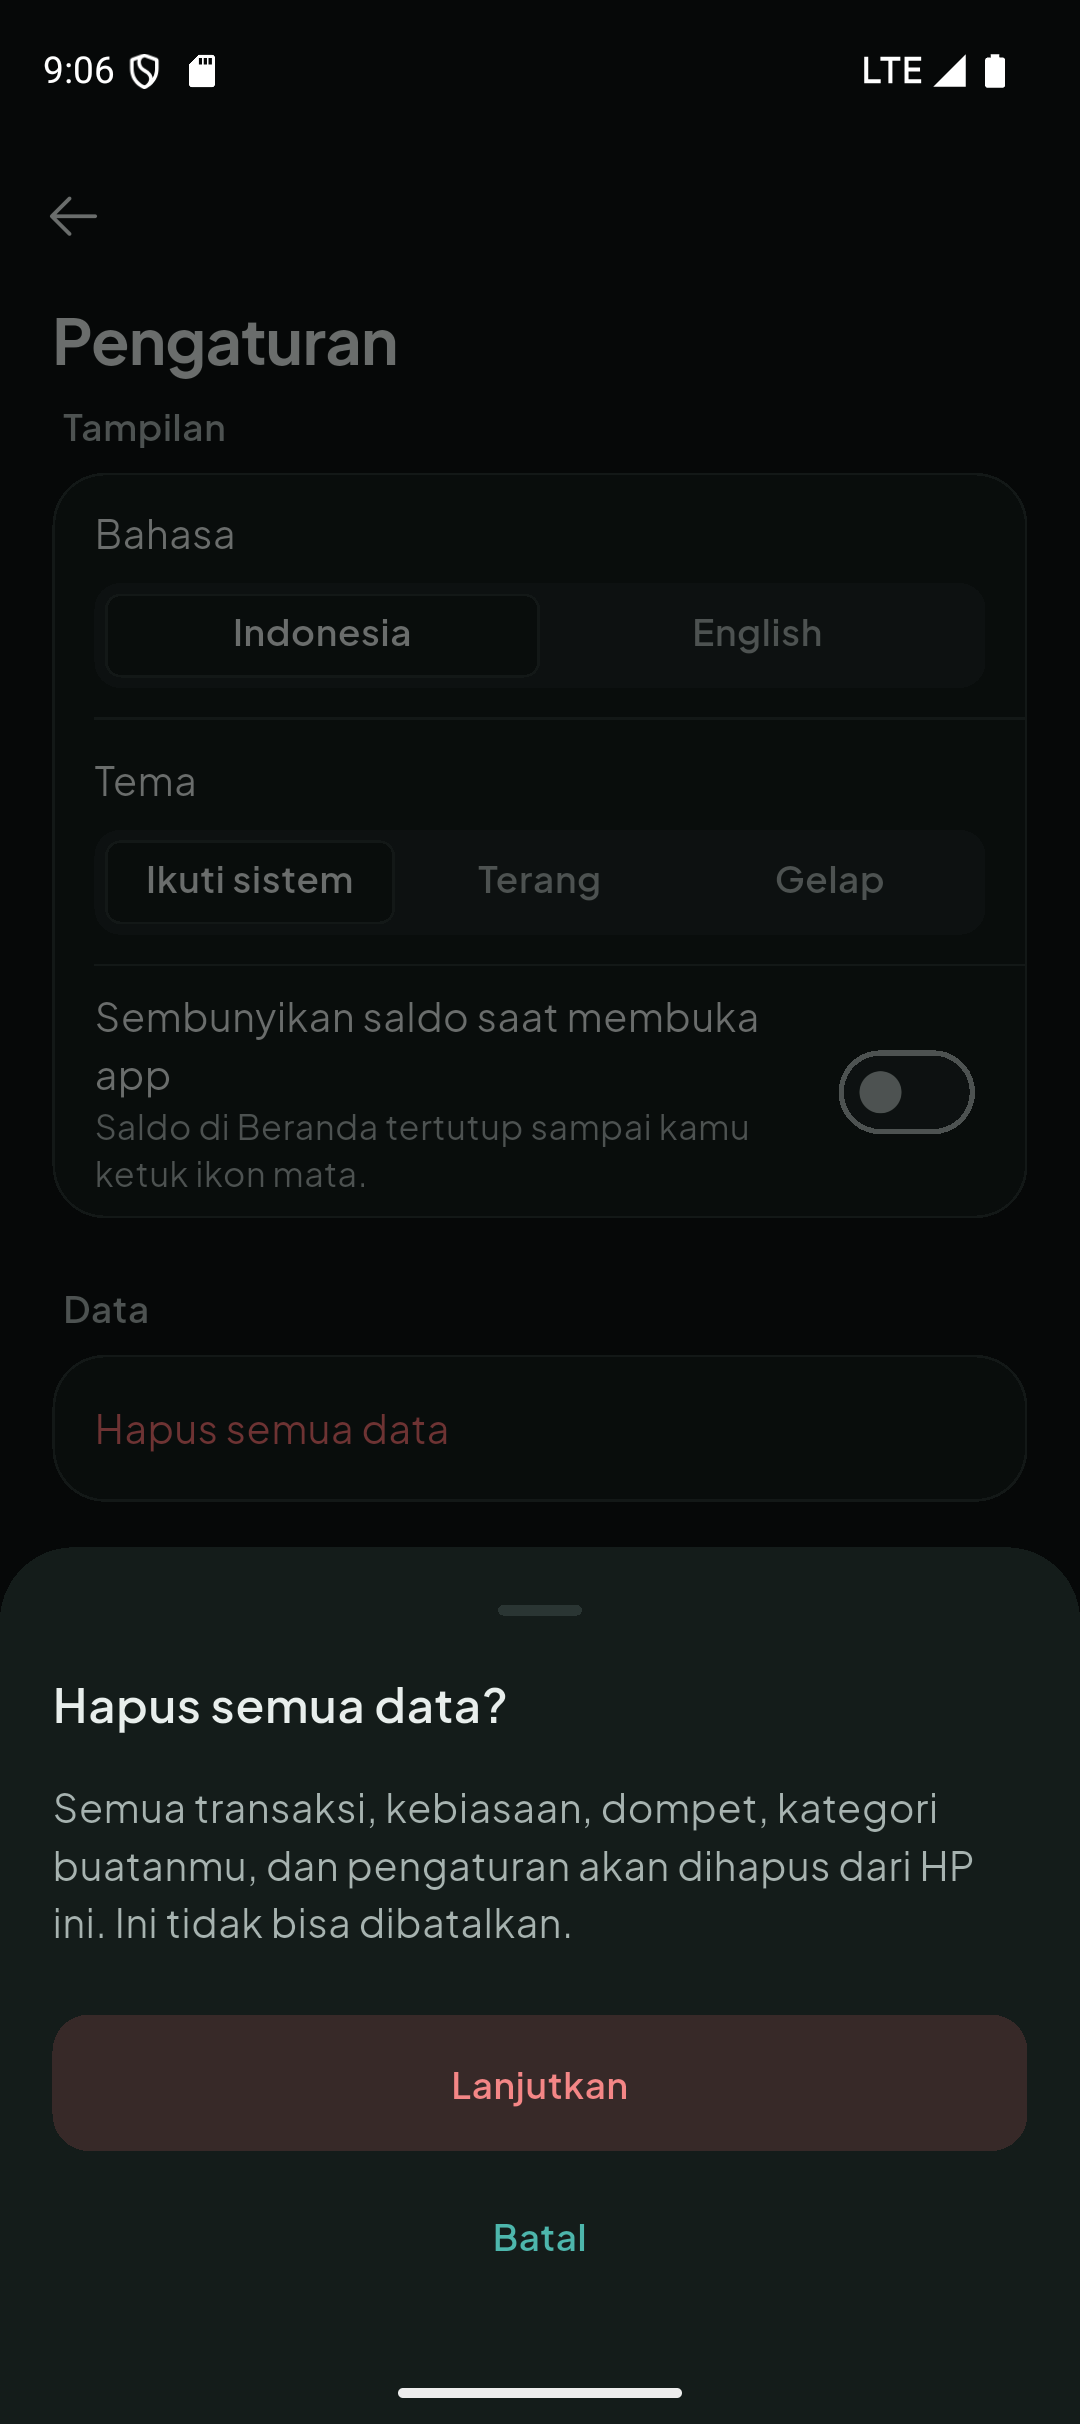
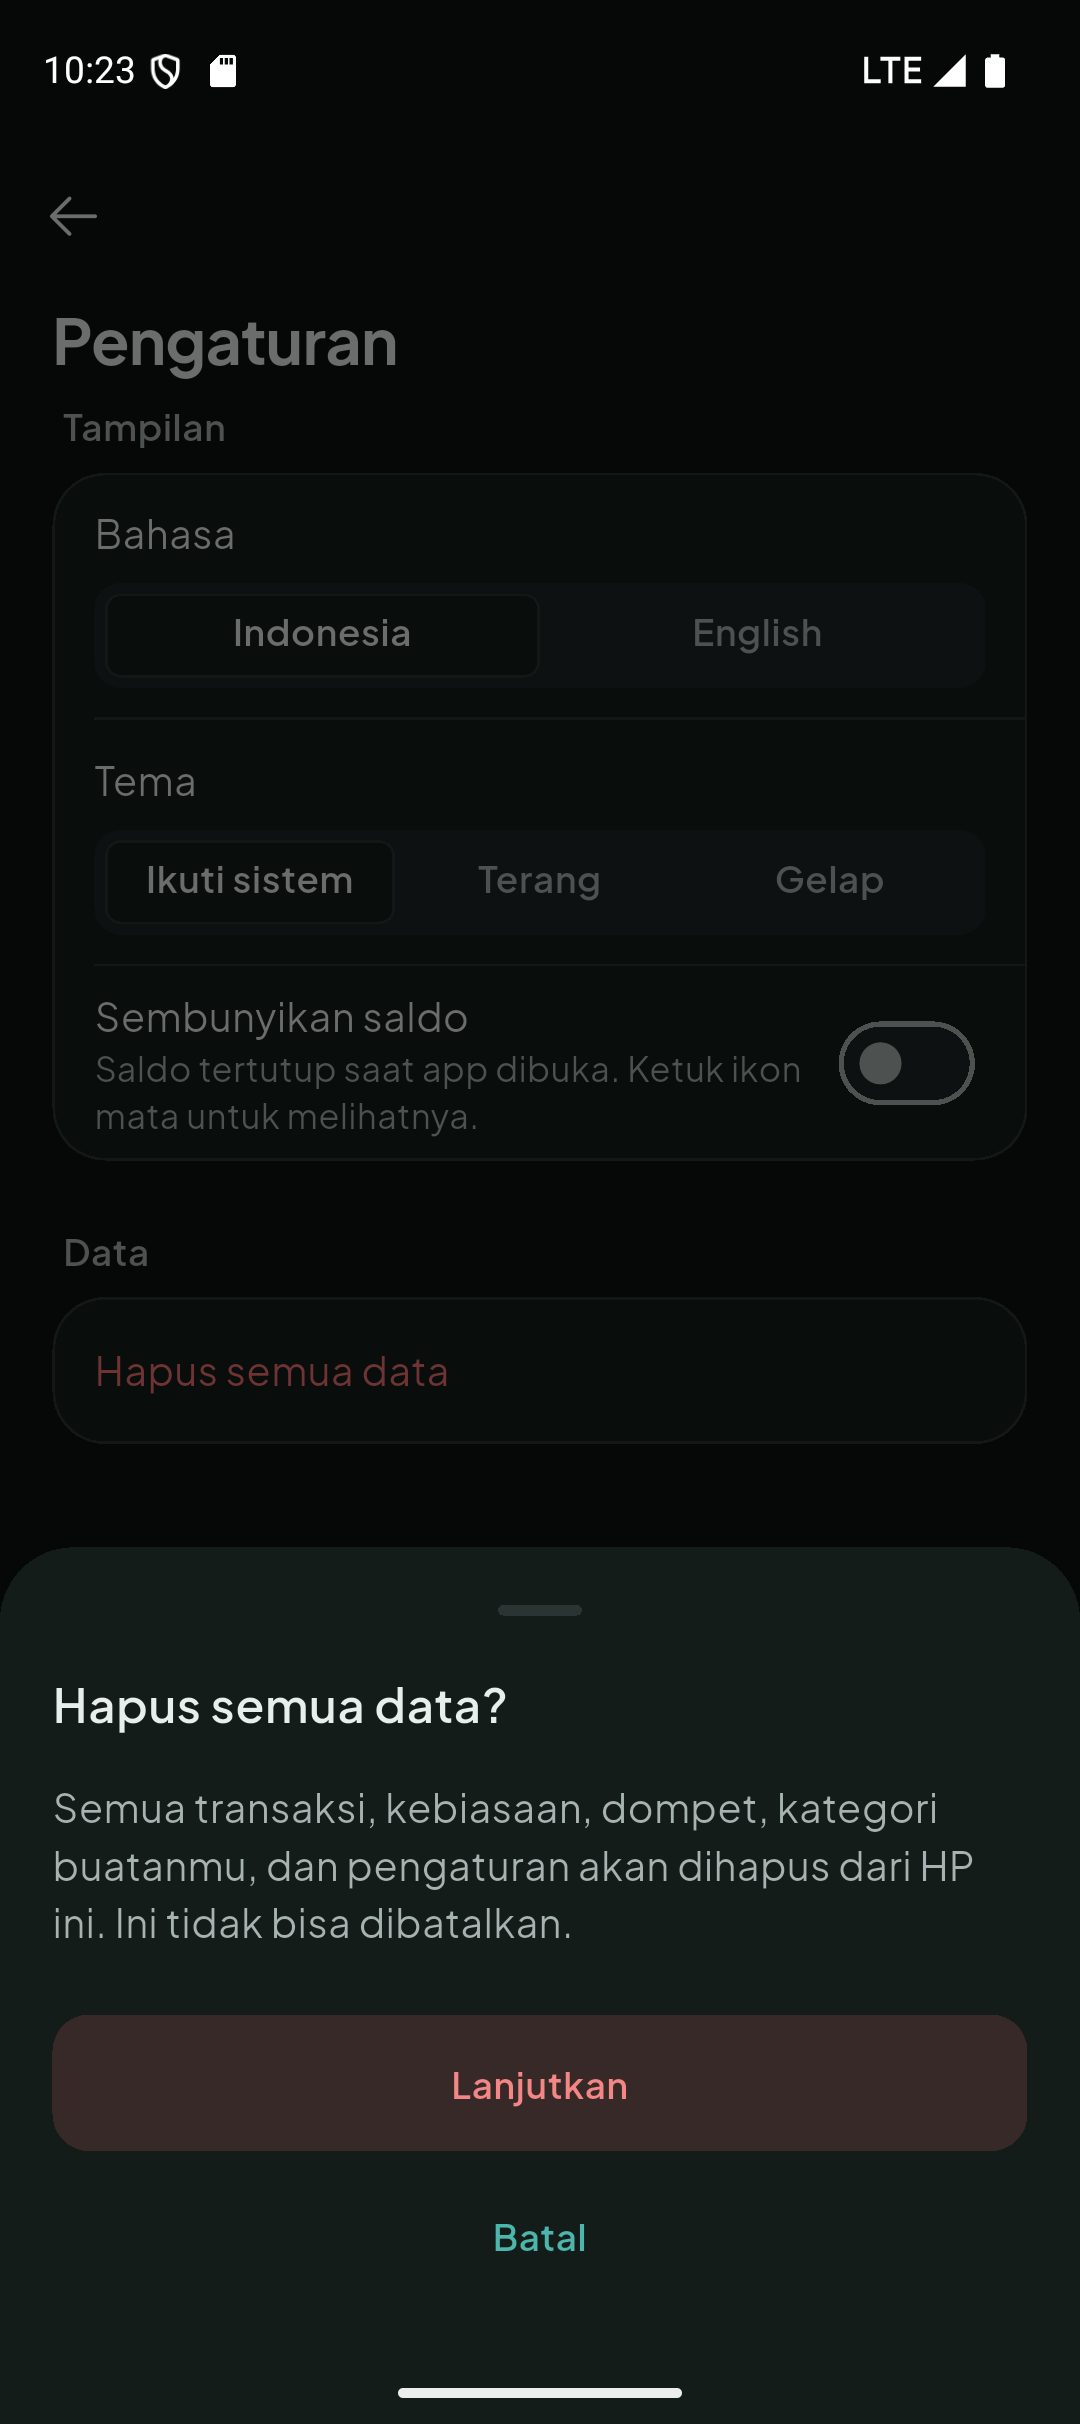
docs: phase 2 review decisions, checklists and screenshots
- 06 §5: phase 2 decisions approved, the shared About rows marked as
  changed (About only on S-40), and two rows for the review fixes: the
  database decides onboarding, and the discard-changes guard
- Phase 3 checklist: the hide balance toggle must hide the
  BalanceHeader amount at launch
- Phase 6: version 2.0.0+2, since APK v1 always shipped 1.0.0+1 (commit
  ca79cb0 to tag v1-legacy) and v2 must install over it
- Screenshots: settings, both delete-all steps and about updated; the
  discard dialog added (light and dark)

diff --git a/compound_me/docs/v2/06-execution-plan.md b/compound_me/docs/v2/06-execution-plan.md
@@ -142,6 +142,7 @@ DoD + screenshot. PR tanpa merge.
 - [ ] Catat "kopi Rp 22.000" ≤ 5 detik (pakai stopwatch HP).
 - [ ] Hapus transaksi → Urungkan → kembali utuh, saldo benar.
 - [ ] Edit transaksi pindah dompet → saldo kedua dompet benar.
+- [ ] Toggle "Sembunyikan saldo" di Pengaturan: saat app dibuka, saldo di BalanceHeader tertutup; ikon mata membukanya. Matikan toggle → saldo terlihat saat app dibuka.
 
 ### Fase 4 — Kebiasaan
 **Branch:** `v2/phase-4-habits` · **Fitur:** F-08 + strip kebiasaan di Beranda · **Layar:** S-20, S-21, S-22
@@ -196,7 +197,7 @@ Termasuk:
 - Build release (R8) dan jalankan di emulator; pastikan tidak ada crash (keep rule, drift, sqlite3).
 - Cek kompatibilitas page size 16 KB (emulator image 16 KB).
 - README baru (bahasa Inggris): deskripsi jujur, fitur, screenshot, arsitektur, cara build. Hapus klaim Web.
-- Bump versi ke 2.0.0+1.
+- Naikkan `version` di pubspec dari 1.0.0+1 ke 2.0.0+2. Build number harus lebih besar dari APK v1, yang selalu 1.0.0+1 (commit ca79cb0 sampai tag v1-legacy), supaya v2 bisa dipasang menimpa v1.
 
 DoD + laporan audit sebelum/sesudah. PR tanpa merge.
 ```
@@ -204,6 +205,7 @@ DoD + laporan audit sebelum/sesudah. PR tanpa merge.
 **Checklist kamu (uji pengguna kecil):**
 - [ ] Minta 3–5 teman (persona target) mencoba tanpa penjelasan: onboarding, catat kopi, cari kebiasaan termahal. Catat di mana mereka ragu.
 - [ ] Isi skor SUS (10 pertanyaan standar) dari mereka. Target ≥ 75.
+- [ ] `version` di pubspec = 2.0.0+2 (build number > 1 milik APK v1). APK v2 terpasang menimpa APK v1 tanpa uninstall.
 
 ## 3. Setelah v2.0
 
@@ -246,16 +248,18 @@ Layar <S-xx> belum sesuai docs/v2/02-design-system.md: <sebutkan: ukuran judul t
 | 1 | Ganti jenis kebiasaan setelah check-in dibatalkan: log terhapusnya dibuang permanen | Transaksi reduce lama tidak boleh menaikkan count kebiasaan build saat di-restore; transaksinya kembali sebagai pengeluaran biasa | Disetujui |
 | 1 | Jatah hari longgar dihitung dari hari longgar terakhir yang diberikan, termasuk dari streak sebelumnya; hanya periode yang sudah dinilai yang dihitung | Batas "1 per 7 periode terjadwal" berlaku sebagai jendela bergeser; hari tidak terjadwal, hari ini yang terbuka, dan minggu berjalan tidak menghabiskan jatah | Disetujui |
 | 1 | Batas 10 check-in per hari hanya untuk input (stepper/setCount). Restore pengeluaran boleh membuat count > 10 agar count selalu sama dengan jumlah pengeluaran aktif. Stepper di Fase 4 menampilkan count sebenarnya dan menonaktifkan tombol + saat count ≥ 10. | Review Fase 1; dijaga test repository (restore saat count 10 → count 11, pengeluaran aktif 11, `setCount(11)` tetap ditolak) | Disetujui |
-| 2 | Warna ikon preset dibuat per tema: gold, coral, green diganti di tema terang; teal, slate di tema gelap (tabel 02 §3.5). Key yang tersimpan tetap | Audit B: 5 preset di bawah 3:1 terhadap tint-nya (WCAG 1.4.11); dijaga `preset_colors_test.dart` | Perlu review |
-| 2 | Token baru `dangerTint`, `dangerTintPressed`, `onDangerTint` untuk `DestructiveButton` (02 §11.1) | Teks `danger` di atas tint-nya sendiri hanya 4,33–4,46, di bawah 4,5 | Perlu review |
-| 2 | Editor dompet dan kategori tampil layar penuh di root navigator (tanpa bottom nav); tombol Simpan di akhir body | Form layar penuh seperti S-21; di `bottomNavigationBar` tombol tertutup keyboard | Perlu review |
-| 2 | Hapus dompet/kategori kosong memakai snackbar undo 4 detik, bukan dialog; undo memasukkan kembali baris yang sama (`undoDelete`) | Pola global 03 §4: dialog hanya untuk yang tidak bisa dibatalkan | Perlu review |
-| 2 | Draft onboarding disimpan di preferensi (JSON) per perubahan; dompet dan kebiasaan dibuat sekaligus di akhir dalam satu `db.transaction` | Lanjut dari langkah terakhir tanpa data setengah jadi di DB | Perlu review |
-| 2 | Template: 4 Bangun + 4 Kurangi; Kurangi memakai kategori default (Makanan & minuman, Transportasi, Belanja), tanpa `weeklyLimit`; ikon & warna dipilih sendiri; nama disimpan dalam bahasa saat onboarding | S-01 hanya menyebut nama dan biaya | Perlu review |
-| 2 | Hapus semua data: sheet 2 langkah (bukan dialog), kata `HAPUS`/`DELETE` dicocokkan tanpa peduli huruf besar-kecil; ikut mereset bahasa, tema, dan nama lalu kembali ke onboarding | Hasilnya sama dengan instal baru | Perlu review |
-| 2 | Bahasa di Pengaturan dua opsi "Indonesia / English"; default awal tetap mengikuti perangkat sampai dipilih | S-43; label pendek supaya tidak terpotong di ukuran teks 1,3 | Perlu review |
-| 2 | Satu set baris Tentang (versi, pembuat, kode sumber, lisensi) dipakai di layar Tentang (dari S-40) dan grup Tentang di S-43 | S-40 dan S-43 sama-sama menyebut isi Tentang | Perlu review |
-| 2 | Toggle "Sembunyikan saldo saat membuka app" sudah disimpan, efeknya baru terlihat di `BalanceHeader` Fase 3 | S-43 masuk Fase 2, Beranda Fase 3 | Perlu review |
-| 2 | Dependensi baru `package_info_plus` (versi app) dan `url_launcher` (+ query `https` di AndroidManifest) | Versi dan link repo di Tentang | Perlu review |
-| 2 | Label `SegmentedToggle` boleh dua baris | Di ukuran teks 1,3 "Ikuti sistem" terpotong | Perlu review |
-| 2 | Widget test yang memompa seluruh app memakai `testApp` (melepas app agar timer Drift selesai) dan membaca DB dengan query biasa, bukan `watch().first` | Timer stream Drift tidak berjalan di waktu palsu test | Perlu review |
+| 2 | Warna ikon preset dibuat per tema: gold, coral, green diganti di tema terang; teal, slate di tema gelap (tabel 02 §3.5). Key yang tersimpan tetap | Audit B: 5 preset di bawah 3:1 terhadap tint-nya (WCAG 1.4.11); dijaga `preset_colors_test.dart` | Disetujui |
+| 2 | Token baru `dangerTint`, `dangerTintPressed`, `onDangerTint` untuk `DestructiveButton` (02 §11.1) | Teks `danger` di atas tint-nya sendiri hanya 4,33–4,46, di bawah 4,5 | Disetujui |
+| 2 | Editor dompet dan kategori tampil layar penuh di root navigator (tanpa bottom nav); tombol Simpan di akhir body | Form layar penuh seperti S-21; di `bottomNavigationBar` tombol tertutup keyboard | Disetujui |
+| 2 | Hapus dompet/kategori kosong memakai snackbar undo 4 detik, bukan dialog; undo memasukkan kembali baris yang sama (`undoDelete`) | Pola global 03 §4: dialog hanya untuk yang tidak bisa dibatalkan | Disetujui |
+| 2 | Draft onboarding disimpan di preferensi (JSON) per perubahan; dompet dan kebiasaan dibuat sekaligus di akhir dalam satu `db.transaction` | Lanjut dari langkah terakhir tanpa data setengah jadi di DB | Disetujui |
+| 2 | Template: 4 Bangun + 4 Kurangi; Kurangi memakai kategori default (Makanan & minuman, Transportasi, Belanja), tanpa `weeklyLimit`; ikon & warna dipilih sendiri; nama disimpan dalam bahasa saat onboarding | S-01 hanya menyebut nama dan biaya | Disetujui |
+| 2 | Hapus semua data: sheet 2 langkah (bukan dialog), kata `HAPUS`/`DELETE` dicocokkan tanpa peduli huruf besar-kecil; ikut mereset bahasa, tema, dan nama lalu kembali ke onboarding | Hasilnya sama dengan instal baru | Disetujui |
+| 2 | Bahasa di Pengaturan dua opsi "Indonesia / English"; default awal tetap mengikuti perangkat sampai dipilih | S-43; label pendek supaya tidak terpotong di ukuran teks 1,3 | Disetujui |
+| 2 | Satu set baris Tentang (versi, pembuat, kode sumber, lisensi) dipakai di layar Tentang (dari S-40) dan grup Tentang di S-43 | S-40 dan S-43 sama-sama menyebut isi Tentang | Diubah (review PR #6): Tentang hanya di S-40 |
+| 2 | Toggle "Sembunyikan saldo saat membuka app" sudah disimpan, efeknya baru terlihat di `BalanceHeader` Fase 3 | S-43 masuk Fase 2, Beranda Fase 3 | Disetujui |
+| 2 | Dependensi baru `package_info_plus` (versi app) dan `url_launcher` (+ query `https` di AndroidManifest) | Versi dan link repo di Tentang | Disetujui |
+| 2 | Label `SegmentedToggle` boleh dua baris | Di ukuran teks 1,3 "Ikuti sistem" terpotong | Disetujui |
+| 2 | Widget test yang memompa seluruh app memakai `testApp` (melepas app agar timer Drift selesai) dan membaca DB dengan query biasa, bukan `watch().first` | Timer stream Drift tidak berjalan di waktu palsu test | Disetujui |
+| 2 | Status onboarding bersumber dari database: saat bootstrap (splash masih ditahan) `onboardingDone` = ada minimal satu dompet (aktif/arsip); draft yang tersisa dihapus; tanpa dompet padahal preferensi "selesai" = hapus semua data yang terputus, jadi preferensi dibersihkan. Nama disimpan sebelum transaksi DB. Preferensi tetap cache untuk redirect router | App yang mati di antara tulis DB dan tulis preferensi tidak boleh membuat dompet/kebiasaan dobel atau masuk Beranda tanpa dompet | Disetujui (review PR #6) |
+| 2 | Konfirmasi "Buang perubahan?" (Buang / Lanjut edit) untuk sheet dan layar editor dengan input belum disimpan: `UnsavedChangesGuard` + `confirmDiscardChanges` di `lib/core/design`, dipakai editor dompet/kategori dan nanti S-11 dan S-21. Simpan/arsip/hapus keluar tanpa konfirmasi. Sheet ber-input memakai `showAppSheet(enableDrag: false)` | Tarik-tutup sheet di Flutter 3.47 memanggil `Navigator.pop` langsung dan melewati `PopScope` | Disetujui (review PR #6) |
